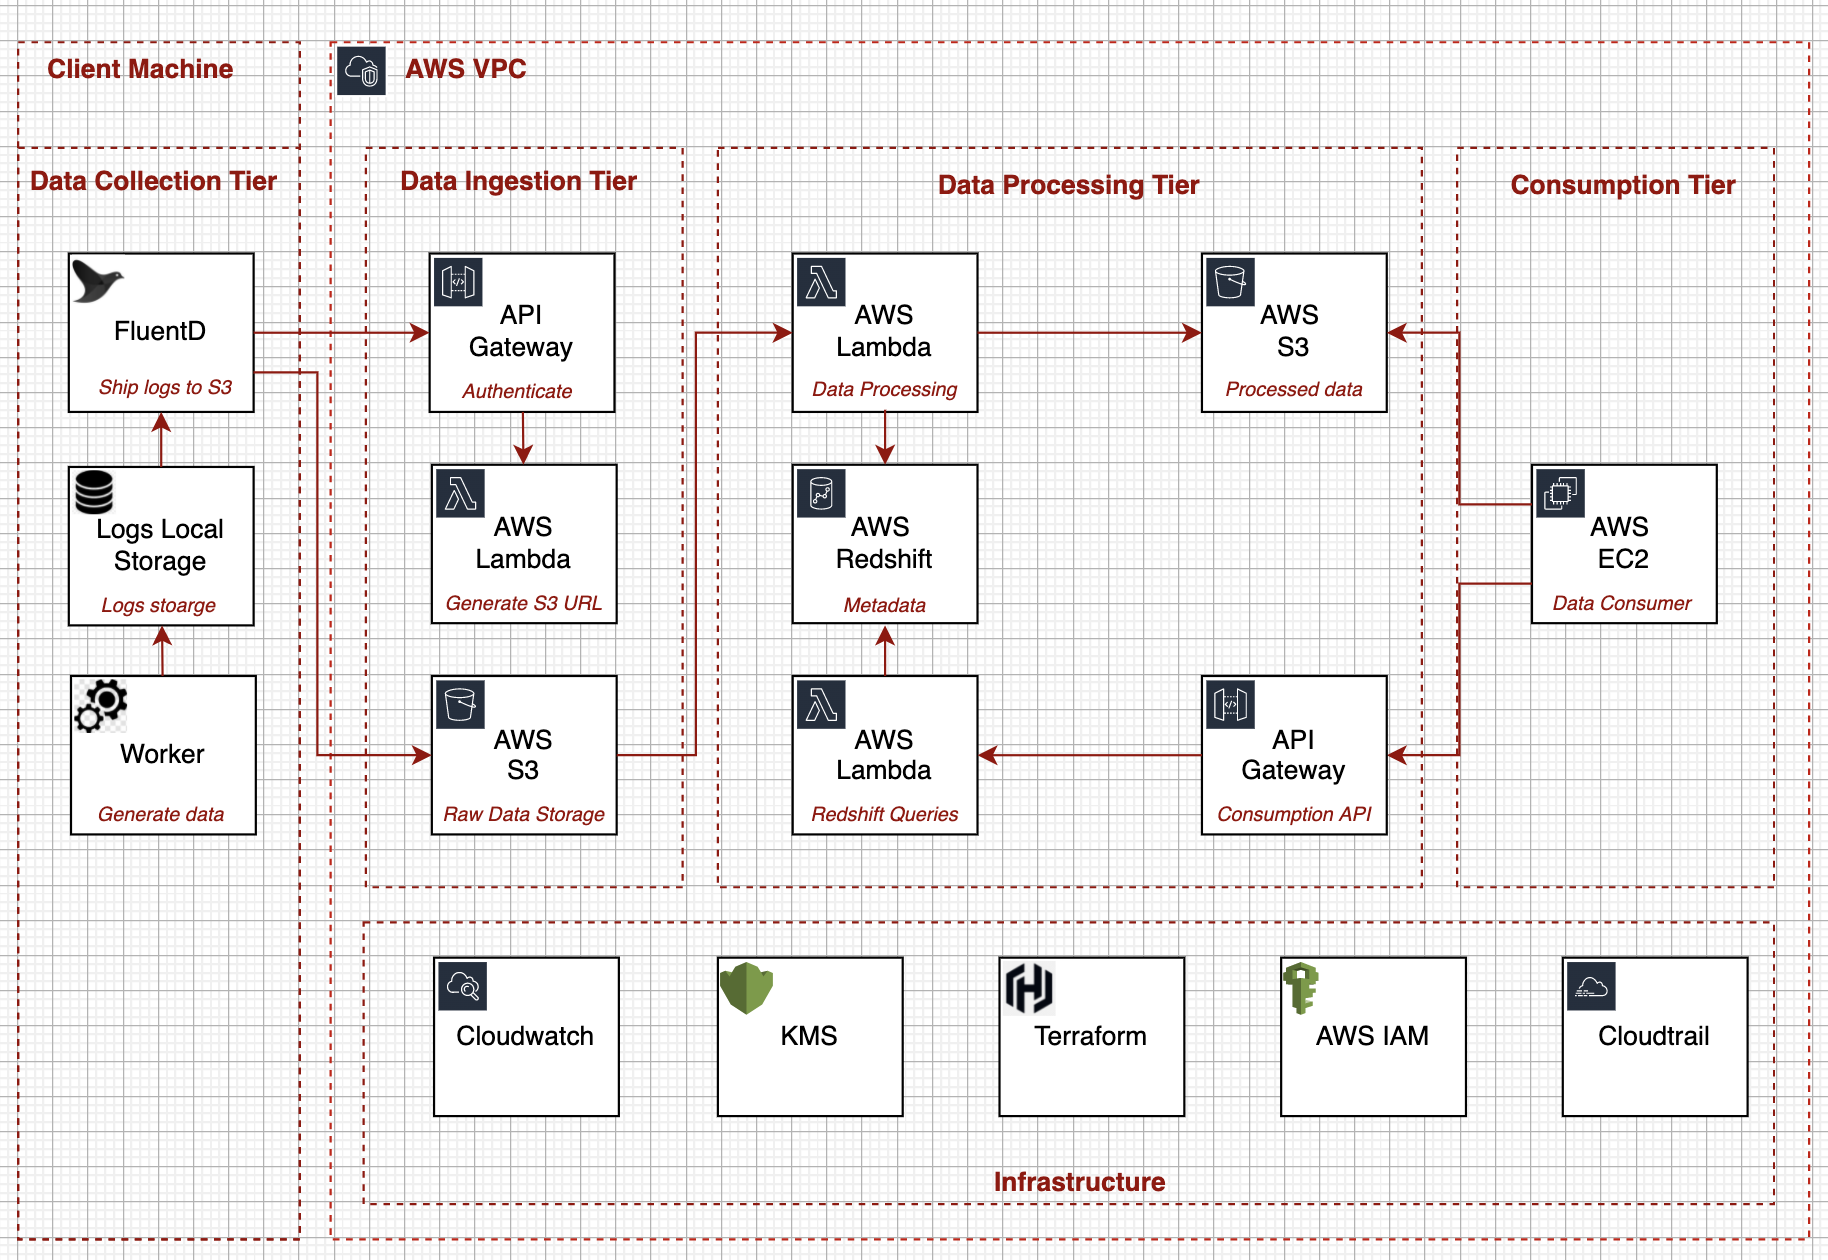
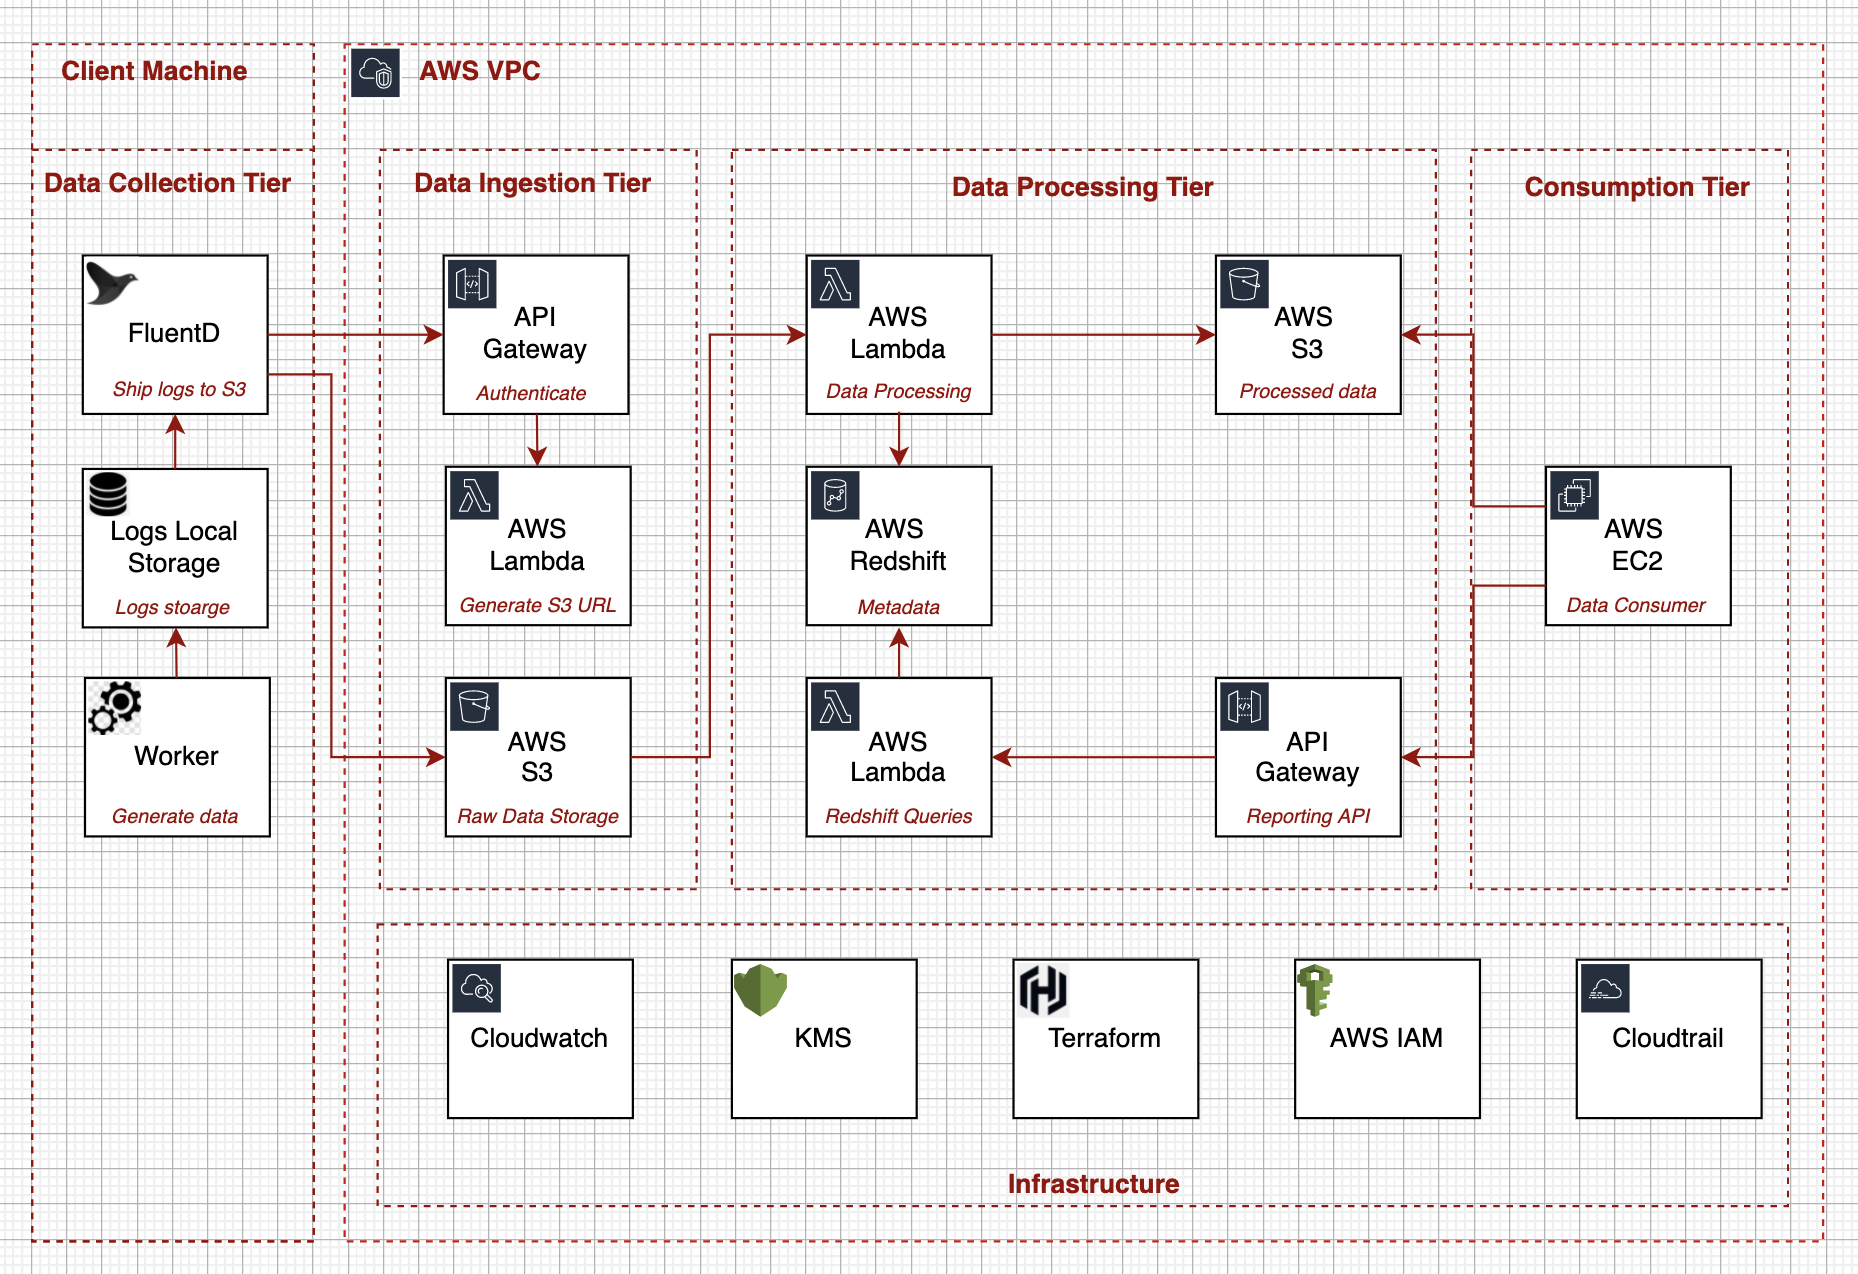
add sequence diagram

Changed region(s): [[0.0, 0.0, 1.0, 1.0]]

diff --git a/cogntiv/part2/README.md b/cogntiv/part2/README.md
@@ -89,8 +89,10 @@ The core component of the data processing tier is the database that stores the m
 - Efficiency: AWS Redshift separates compute and storage, and thus is flexible and can be optimized for any data flow requirements.   
 - Cost: when dealing with the low volumes of data and low numbers of requests, we can use the [serverless](https://aws.amazon.com/blogs/aws/introducing-amazon-redshift-serverless-run-analytics-at-any-scale-without-having-to-manage-infrastructure/) version of the Redshift. By doing so, we can keep the overall cost of the database low
 - Test: AWS Redshift is based on PostgreSQL and thus is replaceable by PostgreSQL DB for test purposes. For example, when running the e2e in the SandBox.  
-The last component of the Data Processing Tier is API Gateway. We used as a facade 
+The last component of the Data Processing Tier is the Reporting API that is implmented by the API Gateway and AWS Lambda. For separation of concerns, we do not expose the database to data consumers. The data schema is the matter of change. It can be changed as a result of adding new datasource or as a result of db optimization activities. And thus, the only component that actually access the reporting code that runs in AWS Lambda that is invked by the API .  
 
+### Data Consumption Tier
+Data Consumption Tier consist of provisioned EC2 machines. Data researches are using these machines to run ML pipelines and data analysis code. They can access the metadata in redshift by using REST API (AWS Lambda) and they can get access to the S3 directly    
 
 
 
